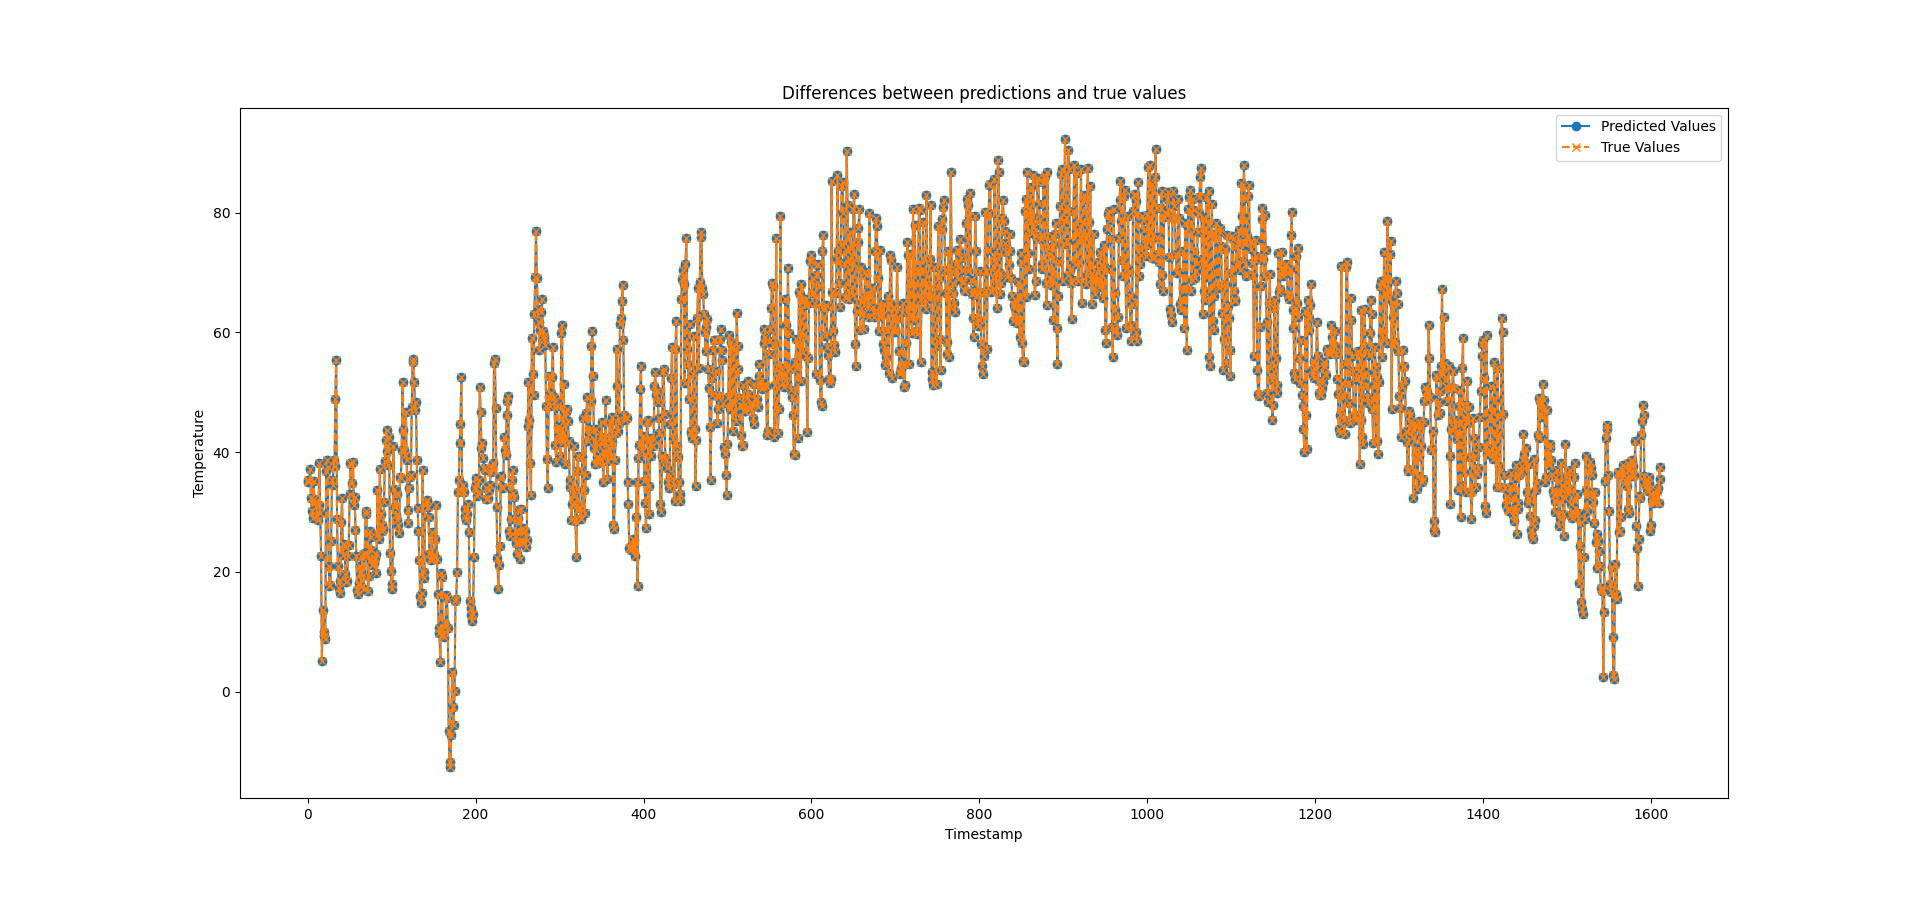
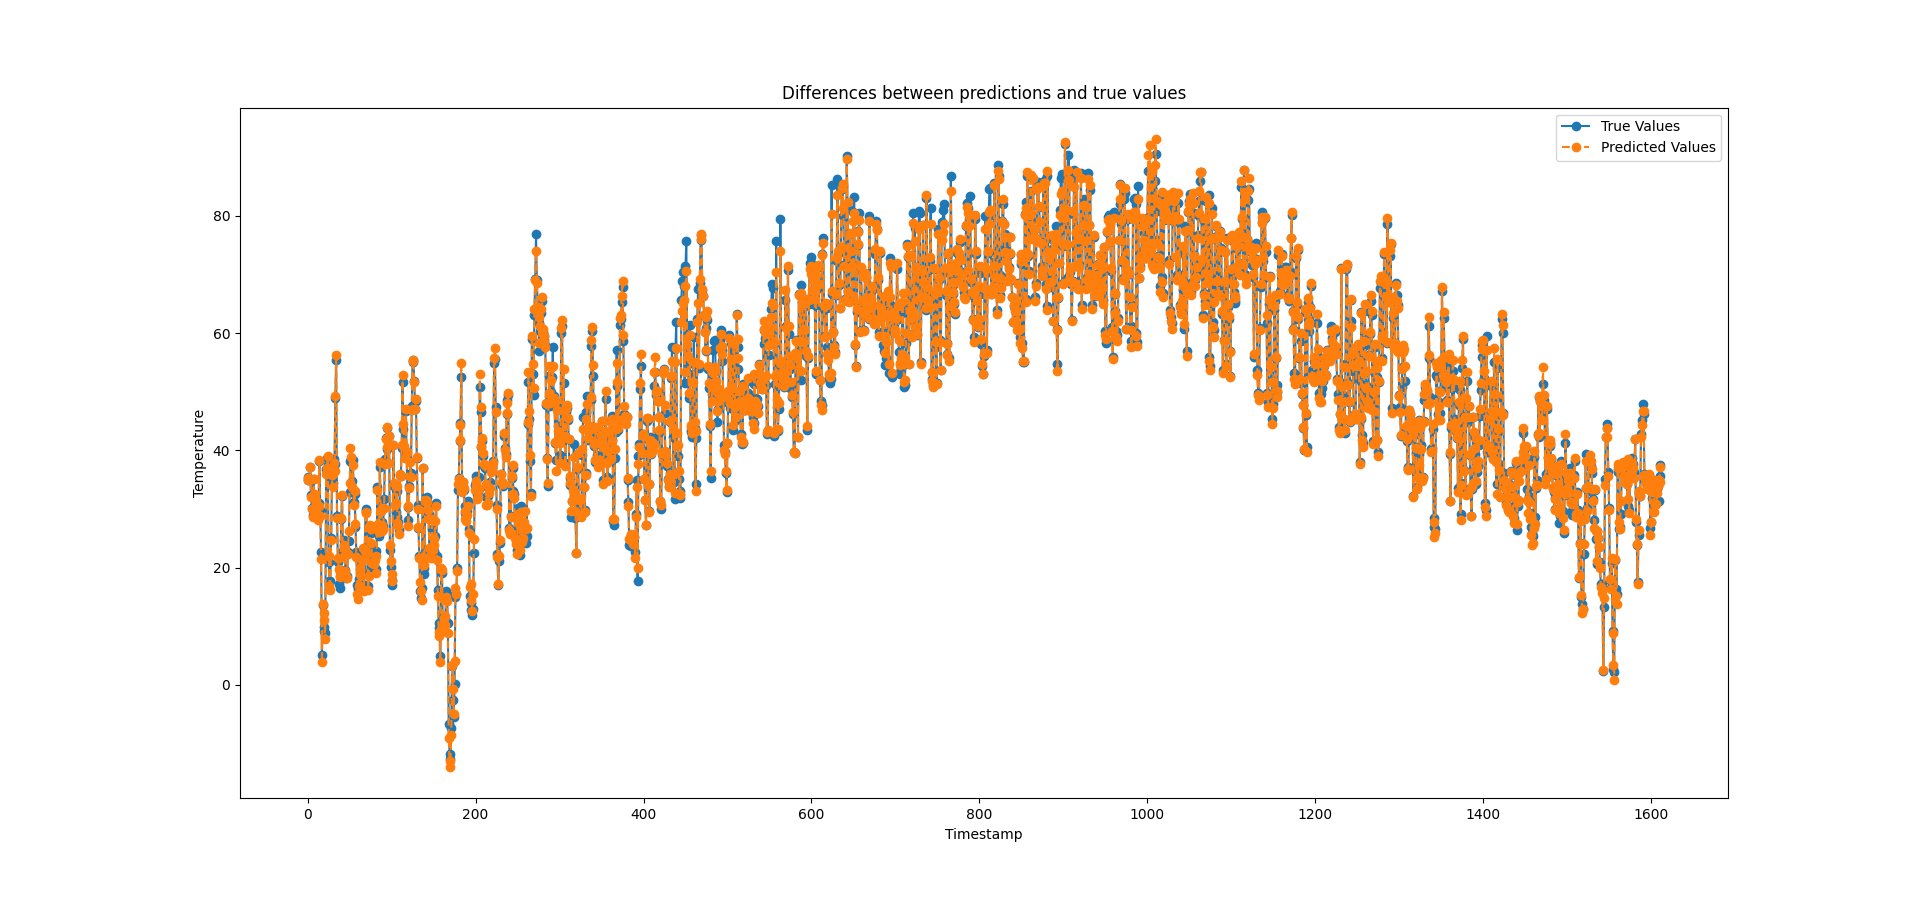
.

Changed region(s): [[0.1562, 0.1561, 0.875, 0.8116], [0.8125, 0.1249, 0.9062, 0.1873]]

diff --git a/batch_preprocessing_analysis/scripts/weather_prediction.py b/batch_preprocessing_analysis/scripts/weather_prediction.py
@@ -38,15 +38,22 @@ lr = LinearRegression(featuresCol="features", labelCol="temperature")
 # Addestra il modello sui dati di addestramento
 model = lr.fit(train_data)
 
+# Evaluation training
+trainingSummary = model.summary
+print("RMSE: %f" % trainingSummary.rootMeanSquaredError)
+print("r2: %f" % trainingSummary.r2)
+
 # Prevedi i valori delle temperature per il set di test
 predictions = model.transform(test_data)
+predictions.select("prediction","temperature","features").show(10)
+lr_evaluator = RegressionEvaluator(predictionCol="prediction", \
+                 labelCol="temperature",metricName="r2")
+print("R Squared (R2) on test data = %g" % lr_evaluator.evaluate(predictions))
+test_result = model.evaluate(test_data)
+print("Root Mean Squared Error (RMSE) on test data = %g" % test_result.rootMeanSquaredError)
 
-# Valuta le prestazioni del modello utilizzando l'evaluatore di regressione
-evaluator = RegressionEvaluator(labelCol="temperature", metricName="rmse")
-rmse = evaluator.evaluate(predictions)
-
-prediction_list = predictions.select('temperature').collect()
-prediction_list = [row['temperature'] for row in prediction_list]
+prediction_list = predictions.select('prediction').collect()
+prediction_list = [row['prediction'] for row in prediction_list]
 
 true_list = test_data.select('temperature').collect()
 true_list = [row['temperature'] for row in true_list]
@@ -55,11 +62,12 @@ x_values = [i for i in range(1612)]
 
 fig, ax = plt.subplots()
 
-# Plot the predicted values line
-ax.plot(x_values, prediction_list, marker='o', linestyle='-', label='Predicted Values')
-
 # Plot the true values line
-ax.plot(x_values, true_list, marker='x', linestyle='--', label='True Values')
+ax.plot(x_values, true_list, marker='o', linestyle='-', label='True Values')
+
+# Plot the predicted values line
+ax.plot(x_values, prediction_list, marker='o', linestyle='--', label='Predicted Values')
+
 
 # Set labels and title
 ax.set_xlabel('Timestamp')
@@ -71,7 +79,5 @@ ax.legend()
 
 # Show the plot
 plt.show()
-
-print("Root Mean Squared Error (RMSE):", rmse)
 
 spark.stop()
